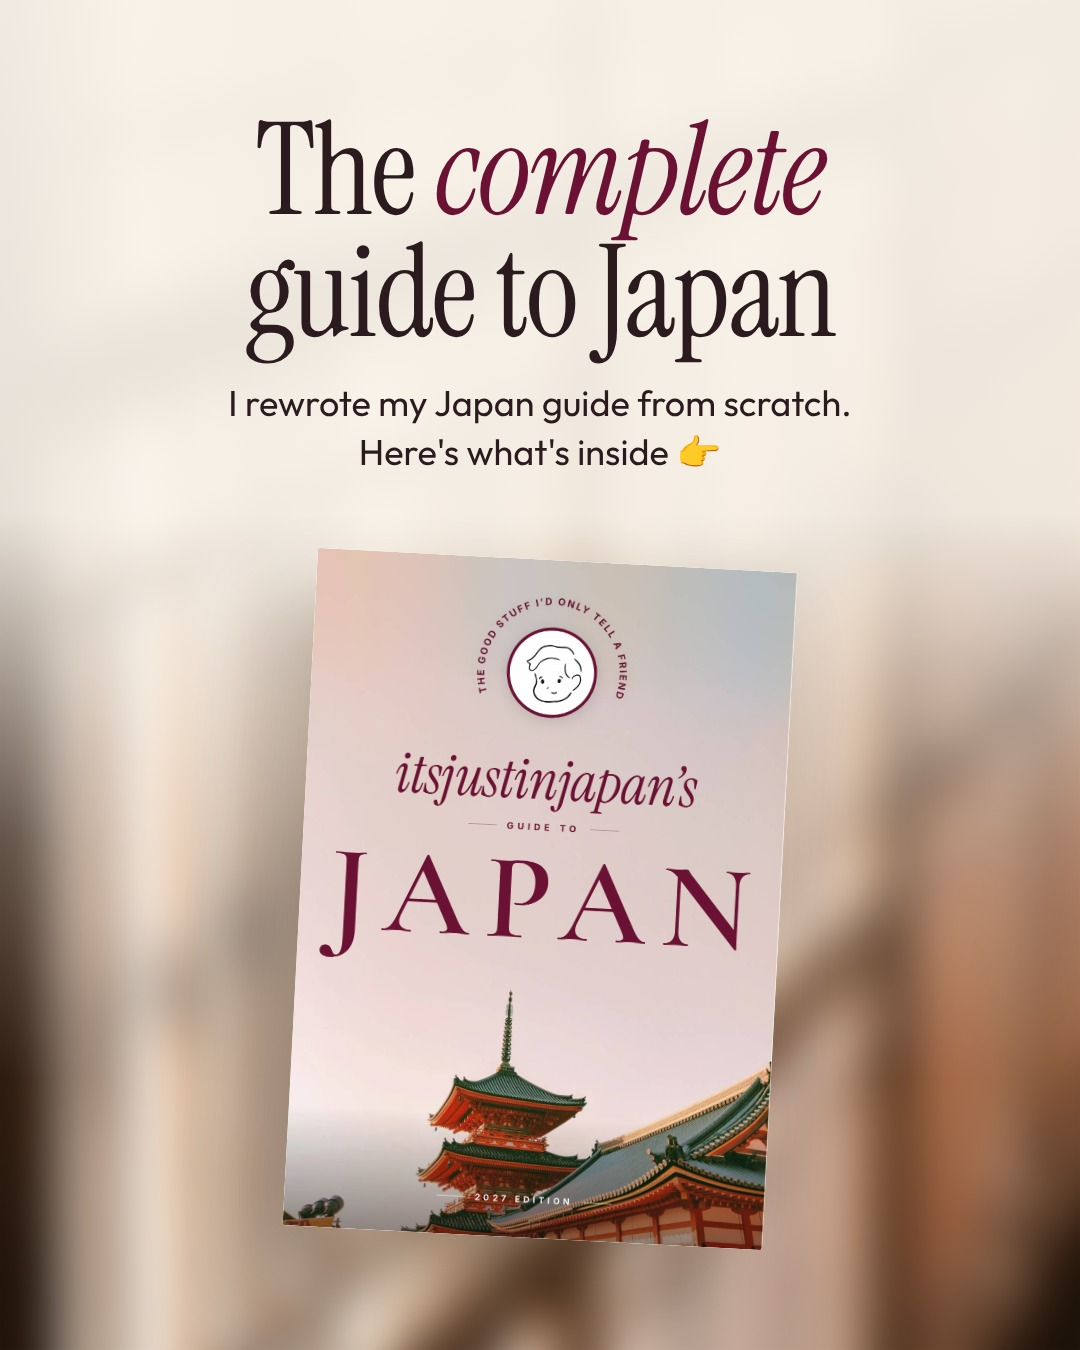
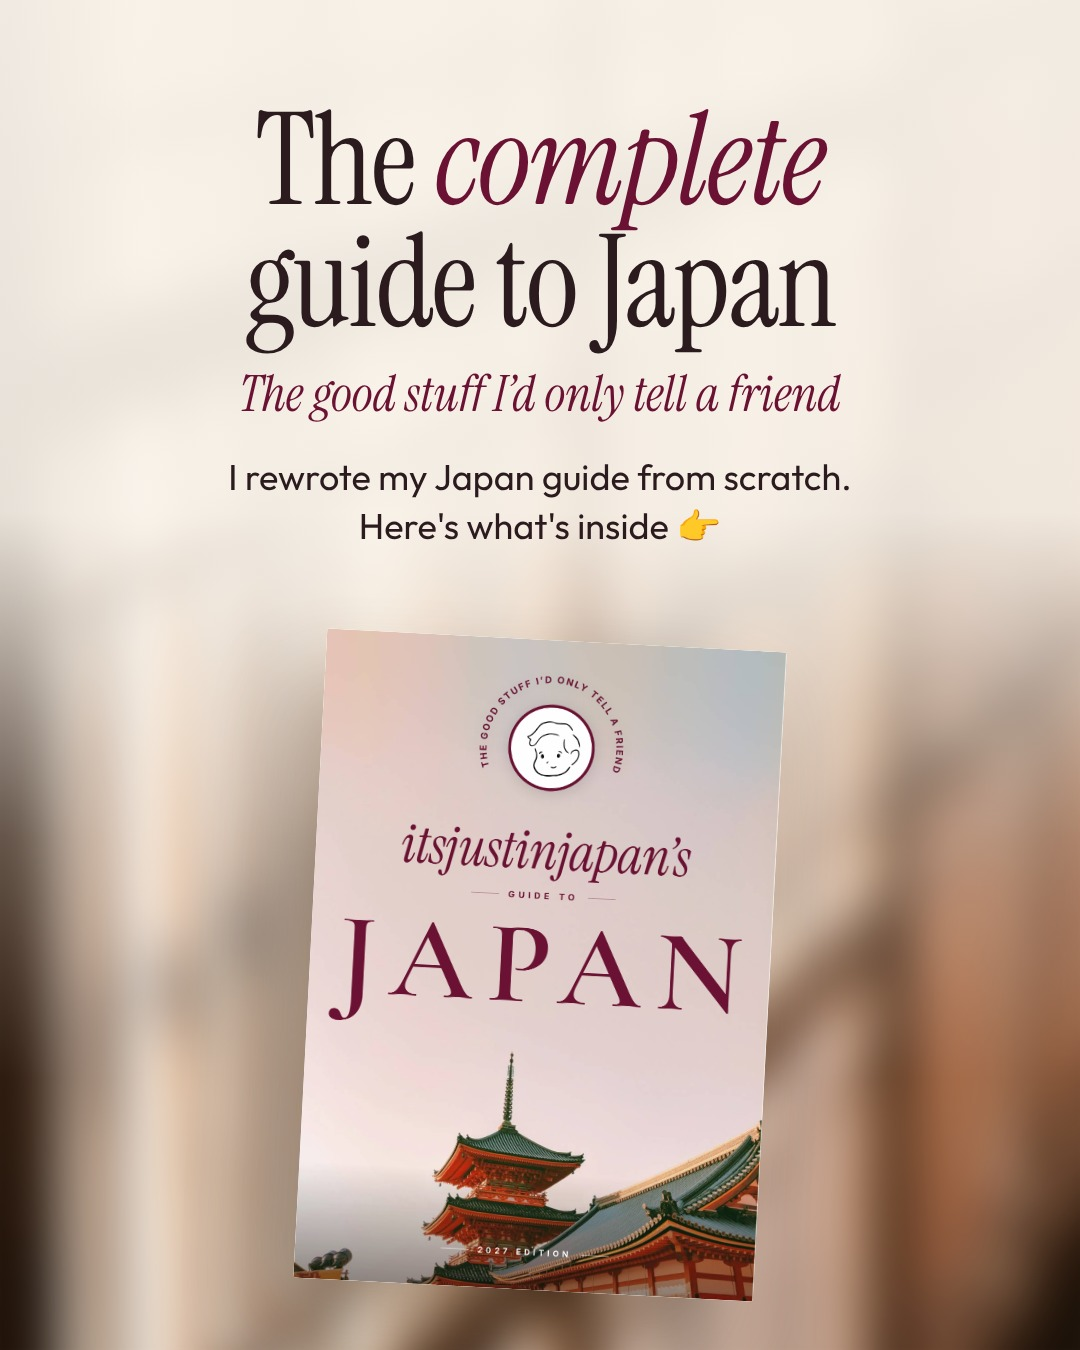
Add tagline 'The good stuff I'd only tell a friend' to hero, carousel and launch story
Claude-Session: https://claude.ai/code/session_01Ki5uwK1E6UNvwVLzA4yviP

Changed region(s): [[0.2139, 0.0622, 0.7944, 0.9644], [0.2444, 0.1244, 0.275, 0.1556]]

diff --git a/listing-images/src/hero-shoji.html b/listing-images/src/hero-shoji.html
@@ -22,11 +22,11 @@ ul{list-style:none;padding:0;font-size:40px;line-height:1.75;color:#2b1a1e;font-
 .phone{position:absolute;left:840px;top:880px;width:340px;height:520px;background:#141414;border-radius:54px;padding:14px;
  box-shadow:-30px 50px 80px rgba(60,35,20,.35)}
 .phone img{display:block;width:100%;height:100%;object-fit:cover;object-position:top;border-radius:42px}
-</style></head><body>
+.tag{font-family:IS;font-style:italic;font-size:54px;color:#6b1234;margin-top:22px}</style></head><body>
 <div class="bg"></div><div class="warm"></div>
 <div class="head">
  
- <h1>The <em>complete</em><br>guide to Japan</h1>
+ <h1>The <em>complete</em><br>guide to Japan</h1><div class="tag">The good stuff I’d only tell a friend</div>
  <div class="line"></div>
  <ul><li>102-page guide from my own trips</li><li>14-day planner included</li><li>Instant download · phone or print</li></ul>
 </div>

diff --git a/launch-content/src/gen.py b/launch-content/src/gen.py
@@ -18,6 +18,7 @@ li span:last-child{font-size:36px;line-height:1.25}
 .pg{position:absolute;background:#fff;border-radius:3px;overflow:hidden}
 .pg img{width:100%;height:100%;object-fit:cover;object-position:top;display:block}
 .brand{position:absolute;left:0;right:0;bottom:BRpx;text-align:center;font-family:IS;font-style:italic;font-size:34px;color:#5e4a40}
+.tag{font-family:IS;font-style:italic;font-size:50px;color:#6b1234;margin-top:18px}
 .cta{display:inline-block;margin-top:40px;background:#6b1234;color:#fff;border-radius:999px;padding:22px 48px;font-size:34px;letter-spacing:.06em}
 '''
 def page(w,h,top,feat,two=True,pw=500):
@@ -28,9 +29,10 @@ def page(w,h,top,feat,two=True,pw=500):
     a,b=imgs
     return (f'<div class="pg" style="left:{cx-pw+40}px;top:{top}px;width:{pw}px;height:{ph}px;transform:rotate(-6deg);box-shadow:-20px 40px 60px rgba(70,45,25,.22)"><img src="{b}"></div>'
             f'<div class="pg" style="left:{cx-60}px;top:{top+60}px;width:{pw}px;height:{ph}px;transform:rotate(4deg);box-shadow:-30px 50px 80px rgba(70,45,25,.30)"><img src="{a}"></div>')
-def make(name,w,h,title,fs,top,pts=None,sub=None,pages=None,ptop=700,pw=500,cta=None,br=60,extra=""):
+def make(name,w,h,title,fs,top,pts=None,sub=None,pages=None,ptop=700,pw=500,cta=None,br=60,extra="",tag=None):
     css=CSS.replace("W px",f"{w}px").replace("H px",f"{h}px").replace("TOP",str(top)).replace("FS",str(fs)).replace("BR",str(br))
     body=f'<h1>{title}</h1>'
+    if tag: body+=f'<div class="tag">{tag}</div>'
     if sub: body+=f'<div class="sub">{sub}</div>'
     if pts: body+='<div class="line"></div><ol>'+"".join(f'<li><span class="n">{i+1}</span><span>{p}</span></li>' for i,p in enumerate(pts))+'</ol>'
     if cta: body+=f'<div class="cta">{cta}</div>'
@@ -43,13 +45,13 @@ FEATS=[("A <em>14-day</em> plan,<br>ready to go",["Hotels, food and things to do
  ("Spend <em>smarter</em>",["What to budget per day","The new 2026 tax-free rules","What's worth the suitcase space"],["p32-032-b.png","p26-026-b.png"]),
  ("Eat like a <em>local</em>",["How to order anywhere","Konbini favourites","Special diets"],["p70-070-b.png","p72-072-b.png"])]
 # ---- Pinned carousel 1080x1350
-make("c01",1080,1350,"The <em>complete</em><br>guide to Japan",128,110,sub="I rewrote my Japan guide from scratch.<br>Here's what's inside 👉",pages=["p1-001.png"],ptop=560,pw=480)
+make("c01",1080,1350,"The <em>complete</em><br>guide to Japan",128,100,tag="The good stuff I’d only tell a friend",sub="I rewrote my Japan guide from scratch.<br>Here's what's inside 👉",pages=["p1-001.png"],ptop=640,pw=460)
 for i,(t,p,pg) in enumerate(FEATS):
     make(f"c{i+2:02d}",1080,1350,t,104,90,pts=p,pages=pg,ptop=720,pw=430)
 make("c08",1080,1350,"102 pages,<br>made for <em>your</em> trip",112,170,sub="Guide + 14-day planner<br>Instant download · phone or print",cta="Link in bio",pages=["p1-001.png"],ptop=760,pw=380)
 # ---- Story pack 1080x1920 (leave the lower third clear for a link sticker)
 make("s01-teaser",1080,1920,"Something<br>I've been <em>working on</em> 👀",120,260,sub="My Japan guide, rewritten from scratch.<br>More soon.",pages=["p76-076-b.png","p96-096-b.png"],ptop=920,pw=470,br=90)
-make("s02-live",1080,1920,"It's <em>here</em>",170,220,sub="The complete guide to Japan<br>+ 14-day planner",pages=["p1-001.png"],ptop=720,pw=560,br=90)
+make("s02-live",1080,1920,"It's <em>here</em>",170,220,tag="The good stuff I’d only tell a friend",sub="The complete guide to Japan<br>+ 14-day planner",pages=["p1-001.png"],ptop=720,pw=560,br=90)
 for i,(t,p,pg) in enumerate(FEATS[:4]):
     make(f"s{i+3:02d}-feature",1080,1920,t,120,200,pts=p,pages=pg,ptop=900,pw=470,br=90)
 make("s07-waitlist",1080,1920,"On the <em>waitlist</em>?",140,300,sub="Your launch-day thank-you is in your inbox.<br>Check your email (and spam) 💌",pages=["p1-001.png"],ptop=820,pw=460,br=90)
